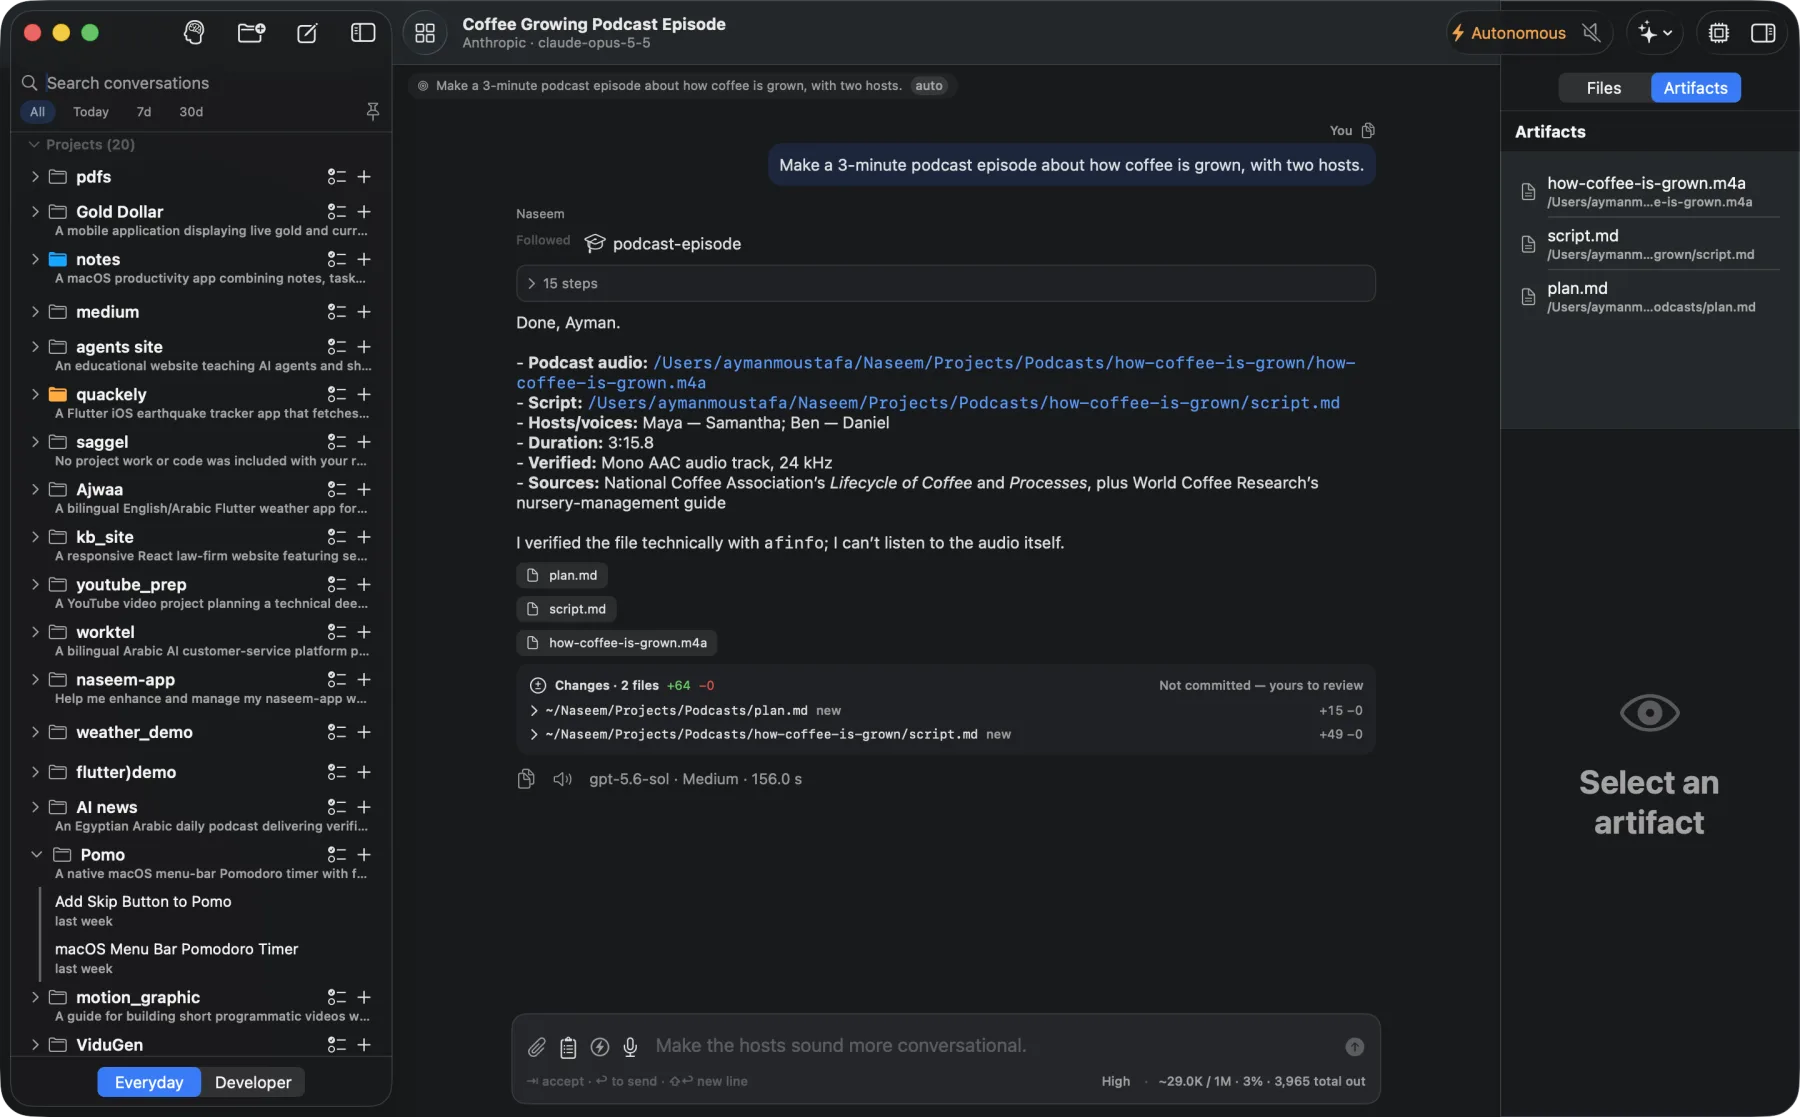
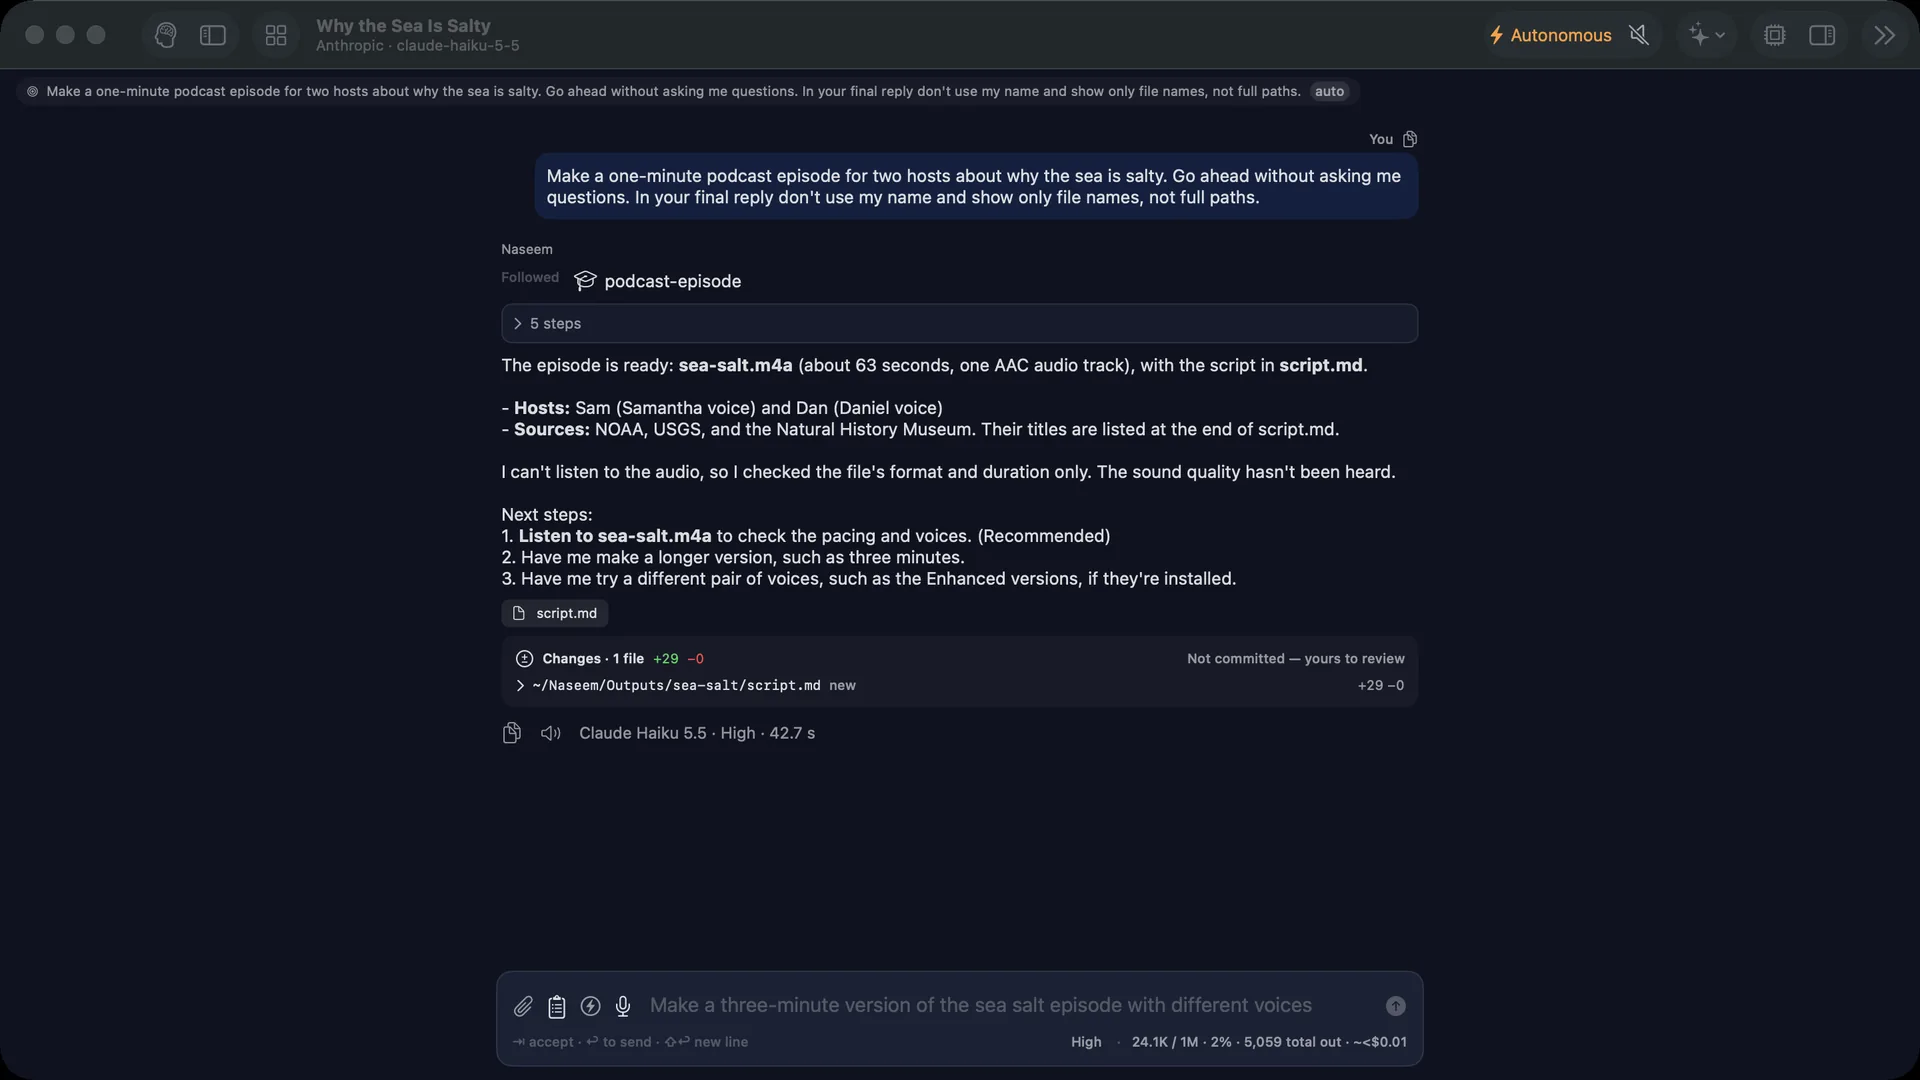
See it work: new podcast picture (no personal name or paths)

diff --git a/index.html b/index.html
@@ -570,8 +570,8 @@
       <figcaption><b>Tables you can sort and save</b><span>Click a column to sort, copy it as a real table, or save it as Excel — with a chart drawn right below.</span></figcaption>
     </figure>
     <figure>
-      <div class="frame"><img class="zoom" src="assets/shots/crop-podcast.webp" data-full="assets/shots/podcast.webp" alt="Naseem’s answer after making a podcast episode about how coffee is grown: the audio file, the script, the two hosts’ voices, a duration of 3:15.8 and the sources it used" width="1400" height="943" loading="lazy"></div>
-      <figcaption><b>A podcast episode, from one sentence</b><span>Three minutes on how coffee is grown: researched with sources, written for two hosts, voiced with the Mac’s own voices, and checked before it said done.</span></figcaption>
+      <div class="frame"><img class="zoom" src="assets/shots/crop-podcast.webp" data-full="assets/shots/podcast.webp" alt="Naseem’s answer after making a podcast episode about why the sea is salty: the audio file, the script, the two hosts’ voices, about 63 seconds, and the sources it used" width="1400" height="943" loading="lazy"></div>
+      <figcaption><b>A podcast episode, from one sentence</b><span>A minute on why the sea is salty: researched with sources, written for two hosts, voiced with the Mac’s own voices, and checked before it said done.</span></figcaption>
     </figure>
     <figure>
       <div class="frame"><img class="zoom" src="assets/shots/crop-course.webp" data-full="assets/shots/course.webp" alt="An interactive course on the solar system open in Naseem: a lesson list, the first lesson, and a Sun-versus-Earth size comparison you can change" width="1400" height="1037" loading="lazy"></div>
